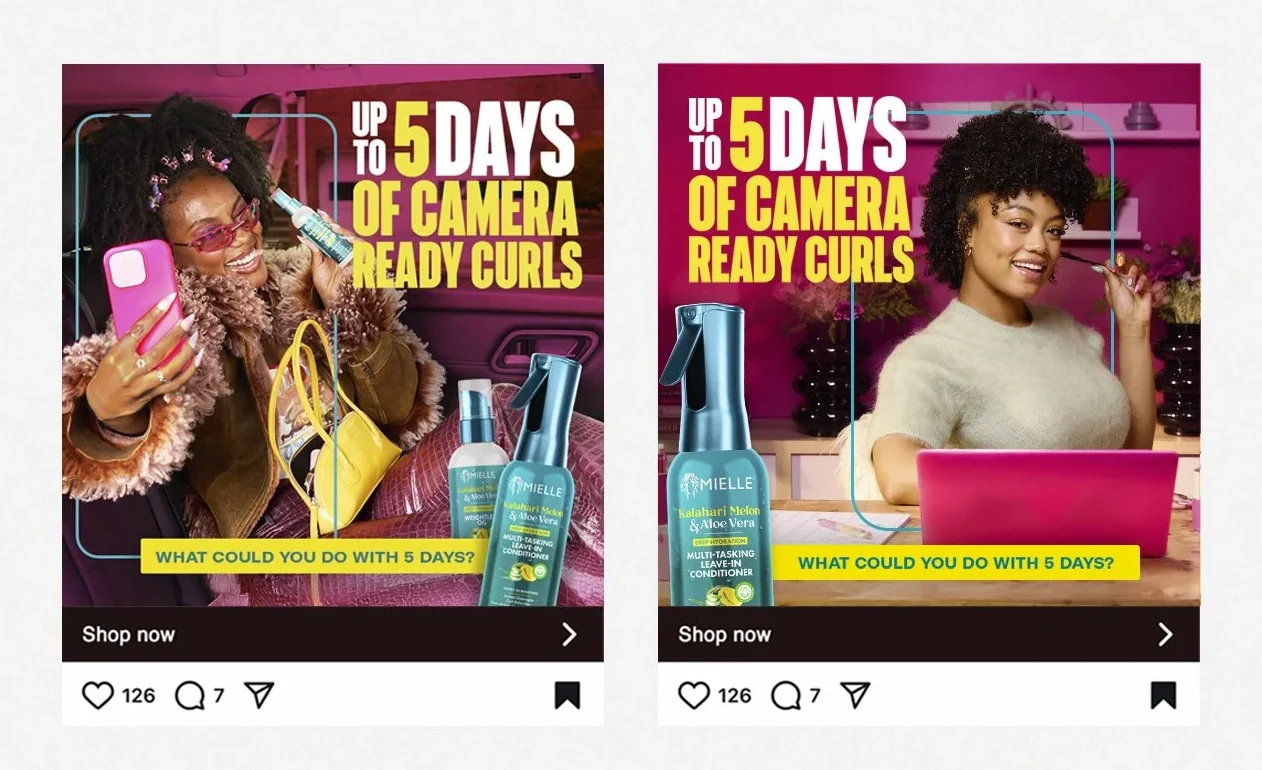
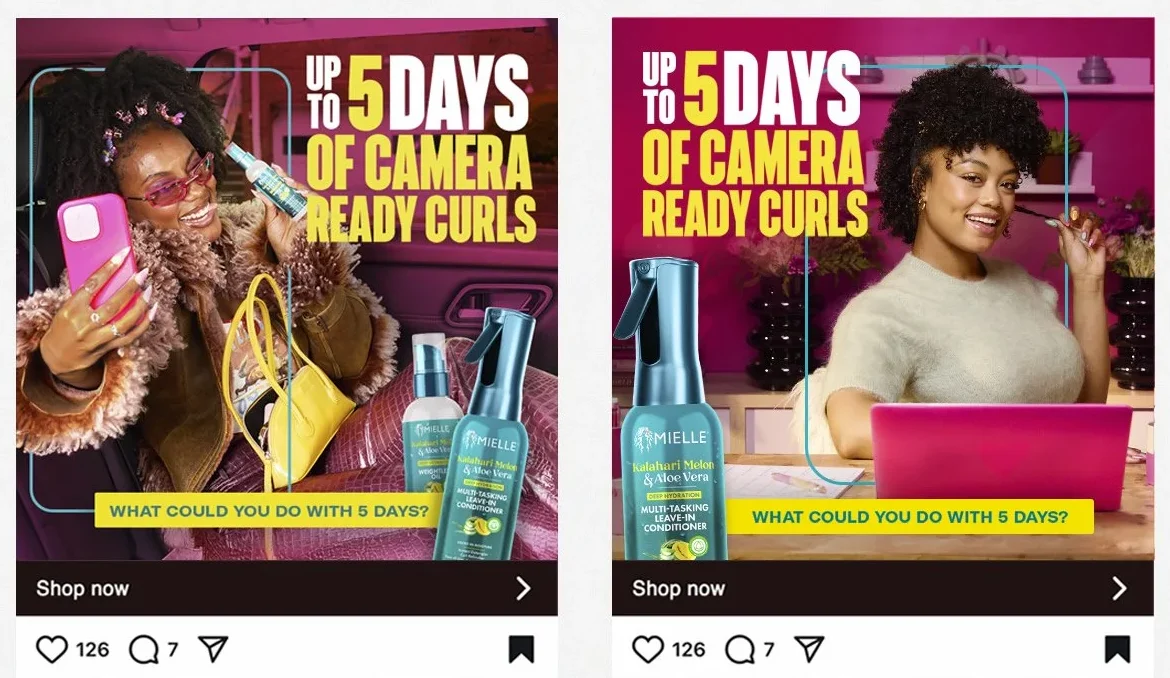
Curls: card captions removed, clip row moves to the bottom as Organic TikTok and Reels, paid box fits its image, social headline in title case
Claude-Session: https://claude.ai/code/session_01GynMn68rPNeErdqJf9SnSH

diff --git a/pages/curls-just-wanna-have-fun.html b/pages/curls-just-wanna-have-fun.html
@@ -142,14 +142,14 @@ display:block;position:relative;overflow-x:clip;width:100%;background:var(--teal
 .kx .social h2 em{font-style:italic;font-weight:400;color:var(--pink)}
 .kx .social .hd p{font-size:calc(var(--u)*1.02);line-height:1.6;max-width:30em}
 .kx .stories{display:grid;grid-template-columns:repeat(4,1fr);gap:calc(var(--u)*1.6);margin-top:calc(var(--u)*3.6)}
-.kx .st{background:var(--white);padding:calc(var(--u)*.6) calc(var(--u)*.6) calc(var(--u)*1);border-radius:calc(var(--u)*.6);box-shadow:0 calc(var(--u)*.8) calc(var(--u)*1.6) rgba(107,32,89,.18);transition:transform .7s var(--spring)}
+.kx .st{background:var(--white);padding:calc(var(--u)*.6);border-radius:calc(var(--u)*.6);box-shadow:0 calc(var(--u)*.8) calc(var(--u)*1.6) rgba(107,32,89,.18);transition:transform .7s var(--spring)}
 .kx .st:hover{transform:translateY(-10px) rotate(-1.5deg)}
 .kx .st:nth-child(even){transform:translateY(calc(var(--u)*1.6))}
 .kx .st:nth-child(even):hover{transform:translateY(calc(var(--u)*1.6 - 10px)) rotate(1.5deg)}
 .kx .st img{width:100%;aspect-ratio:320/572;object-fit:cover;border-radius:calc(var(--u)*.3)}
 .kx .st .c{display:flex;justify-content:space-between;gap:.6em;padding:calc(var(--u)*.8) calc(var(--u)*.2) 0;font-family:var(--mo);font-size:calc(var(--u)*.62);letter-spacing:.1em;text-transform:uppercase}
 .kx .st .c span:last-child{color:var(--pink)}
-.kx .row2{display:grid;grid-template-columns:1.1fr .9fr;gap:calc(var(--u)*2);margin-top:calc(var(--u)*4.4);align-items:stretch}
+.kx .row2{display:grid;grid-template-columns:1.1fr .9fr;gap:calc(var(--u)*2);margin-top:calc(var(--u)*4.4);align-items:start}
 .kx .row2 .bx{background:var(--white);border-radius:calc(var(--u)*1);padding:calc(var(--u)*1.2);position:relative}
 .kx .row2 .bx img{width:100%;border-radius:calc(var(--u)*.5)}
 .kx .row2 .bx .c{padding:calc(var(--u)*.9) calc(var(--u)*.2) 0;font-family:var(--mo);font-size:calc(var(--u)*.64);letter-spacing:.1em;text-transform:uppercase;display:flex;justify-content:space-between;gap:.6em}
@@ -290,25 +290,25 @@ display:block;position:relative;overflow-x:clip;width:100%;background:var(--teal
 <section class="social" id="social">
  <p class="line mo">The social layer</p>
  <div class="hd">
-  <h2 class="rv">Kept the <em>conversation</em> going</h2>
+  <h2 class="rv">Kept The <em>Conversation</em> Going</h2>
   <p class="rv">Footage from the shoot was cut, flipped and re captioned into a social first run that lived past launch week.</p>
  </div>
  <div class="stories">
-  <div class="st rv"><img src="https://raw.githubusercontent.com/manicpixiedigifairy/nina-site/main/assets/kmx-gif-story-1.gif?v=1" alt="" role="img" aria-label="Story ad reading 5 Days Of Max Moisture over a woman flipping her curls" width="320" height="572" loading="lazy"><p class="c"><span>Story 01</span><span>Max moisture</span></p></div>
-  <div class="st rv"><img src="https://raw.githubusercontent.com/manicpixiedigifairy/nina-site/main/assets/kmx-gif-story-2.gif?v=1" alt="" role="img" aria-label="Story ad reading 5 Days Of over a woman in the car spraying the weightless oil" width="320" height="572" loading="lazy"><p class="c"><span>Story 02</span><span>Day two</span></p></div>
-  <div class="st rv"><img src="https://raw.githubusercontent.com/manicpixiedigifairy/nina-site/main/assets/kmx-gif-story-3.gif?v=1" alt="" role="img" aria-label="Story ad reading 5 Days Of Turning Heads over a park scene" width="320" height="572" loading="lazy"><p class="c"><span>Story 03</span><span>Turning heads</span></p></div>
-  <div class="st rv"><img src="https://raw.githubusercontent.com/manicpixiedigifairy/nina-site/main/assets/kmx-gif-story-4.gif?v=1" alt="" role="img" aria-label="Story ad showing the Kalahari Melon and Aloe Vera lineup with the line Imagine What You Could Do In 5 Days" width="320" height="572" loading="lazy"><p class="c"><span>Story 04</span><span>The lineup</span></p></div>
- </div>
- <p class="line mo" style="padding-top:calc(var(--u)*4)">Paid social</p>
- <div class="stories">
-  <div class="st rv"><img src="https://raw.githubusercontent.com/manicpixiedigifairy/nina-site/main/assets/kmx-gif-paid-1.gif?v=1" alt="" role="img" aria-label="Paid social clip: a woman in a yellow shirt reading on the couch with a Day 1 to Day 2 timeline" width="360" height="641" loading="lazy"><p class="c"><span>Paid 01</span><span>Day 1 to day 2</span></p></div>
-  <div class="st rv"><img src="https://raw.githubusercontent.com/manicpixiedigifairy/nina-site/main/assets/kmx-gif-paid-3.gif?v=1" alt="" role="img" aria-label="Paid social clip: a woman in blue lounging with popcorn as the timeline moves from day 1 to day 2" width="360" height="641" loading="lazy"><p class="c"><span>Paid 02</span><span>Day 2</span></p></div>
-  <div class="st rv"><img src="https://raw.githubusercontent.com/manicpixiedigifairy/nina-site/main/assets/kmx-gif-paid-2.gif?v=1" alt="" role="img" aria-label="Paid social clip: a woman in pink holding the weightless oil as the timeline reaches day 5" width="360" height="641" loading="lazy"><p class="c"><span>Paid 03</span><span>Day 4 to day 5</span></p></div>
-  <div class="st rv"><img src="https://raw.githubusercontent.com/manicpixiedigifairy/nina-site/main/assets/kmx-gif-paid-4.gif?v=1" alt="" role="img" aria-label="Paid social end card: the Mielle silhouette animating in pink on black" width="360" height="641" loading="lazy"><p class="c"><span>Paid 04</span><span>End card</span></p></div>
+  <div class="st rv"><img src="https://raw.githubusercontent.com/manicpixiedigifairy/nina-site/main/assets/kmx-gif-story-1.gif?v=1" alt="" role="img" aria-label="Story ad reading 5 Days Of Max Moisture over a woman flipping her curls" width="320" height="572" loading="lazy"></div>
+  <div class="st rv"><img src="https://raw.githubusercontent.com/manicpixiedigifairy/nina-site/main/assets/kmx-gif-story-2.gif?v=1" alt="" role="img" aria-label="Story ad reading 5 Days Of over a woman in the car spraying the weightless oil" width="320" height="572" loading="lazy"></div>
+  <div class="st rv"><img src="https://raw.githubusercontent.com/manicpixiedigifairy/nina-site/main/assets/kmx-gif-story-3.gif?v=1" alt="" role="img" aria-label="Story ad reading 5 Days Of Turning Heads over a park scene" width="320" height="572" loading="lazy"></div>
+  <div class="st rv"><img src="https://raw.githubusercontent.com/manicpixiedigifairy/nina-site/main/assets/kmx-gif-story-4.gif?v=1" alt="" role="img" aria-label="Story ad showing the Kalahari Melon and Aloe Vera lineup with the line Imagine What You Could Do In 5 Days" width="320" height="572" loading="lazy"></div>
  </div>
  <div class="row2">
-  <div class="bx rv"><img src="https://raw.githubusercontent.com/manicpixiedigifairy/nina-site/main/assets/kmx-paid-social.webp?v=1" alt="" role="img" aria-label="Two paid social units reading Up To 5 Days Of Camera Ready Curls" width="1400" height="1472" loading="lazy"><p class="c"><span>Paid social</span><span>Camera ready curls</span></p></div>
+  <div class="bx rv"><img src="https://raw.githubusercontent.com/manicpixiedigifairy/nina-site/main/assets/kmx-paid-social.webp?v=2" alt="" role="img" aria-label="Two paid social units reading Up To 5 Days Of Camera Ready Curls" width="1400" height="1472" loading="lazy"><p class="c"><span>Paid social</span><span>Camera ready curls</span></p></div>
   <div class="bx rv"><img src="https://raw.githubusercontent.com/manicpixiedigifairy/nina-site/main/assets/kmx-gif-twophones.gif?v=1" alt="" role="img" aria-label="Two phone mockups reading 1 Wash Up To 5 Days Of Moisture" width="1000" height="1051" loading="lazy"><p class="c"><span>Feed units</span><span>One wash, five days</span></p></div>
+ </div>
+ <p class="line mo" style="padding-top:calc(var(--u)*4)">Organic TikTok &amp; Reels</p>
+ <div class="stories">
+  <div class="st rv"><img src="https://raw.githubusercontent.com/manicpixiedigifairy/nina-site/main/assets/kmx-gif-paid-1.gif?v=1" alt="" role="img" aria-label="Paid social clip: a woman in a yellow shirt reading on the couch with a Day 1 to Day 2 timeline" width="360" height="641" loading="lazy"></div>
+  <div class="st rv"><img src="https://raw.githubusercontent.com/manicpixiedigifairy/nina-site/main/assets/kmx-gif-paid-3.gif?v=1" alt="" role="img" aria-label="Paid social clip: a woman in blue lounging with popcorn as the timeline moves from day 1 to day 2" width="360" height="641" loading="lazy"></div>
+  <div class="st rv"><img src="https://raw.githubusercontent.com/manicpixiedigifairy/nina-site/main/assets/kmx-gif-paid-2.gif?v=1" alt="" role="img" aria-label="Paid social clip: a woman in pink holding the weightless oil as the timeline reaches day 5" width="360" height="641" loading="lazy"></div>
+  <div class="st rv"><img src="https://raw.githubusercontent.com/manicpixiedigifairy/nina-site/main/assets/kmx-gif-paid-4.gif?v=1" alt="" role="img" aria-label="Paid social end card: the Mielle silhouette animating in pink on black" width="360" height="641" loading="lazy"></div>
  </div>
 </section>
 
